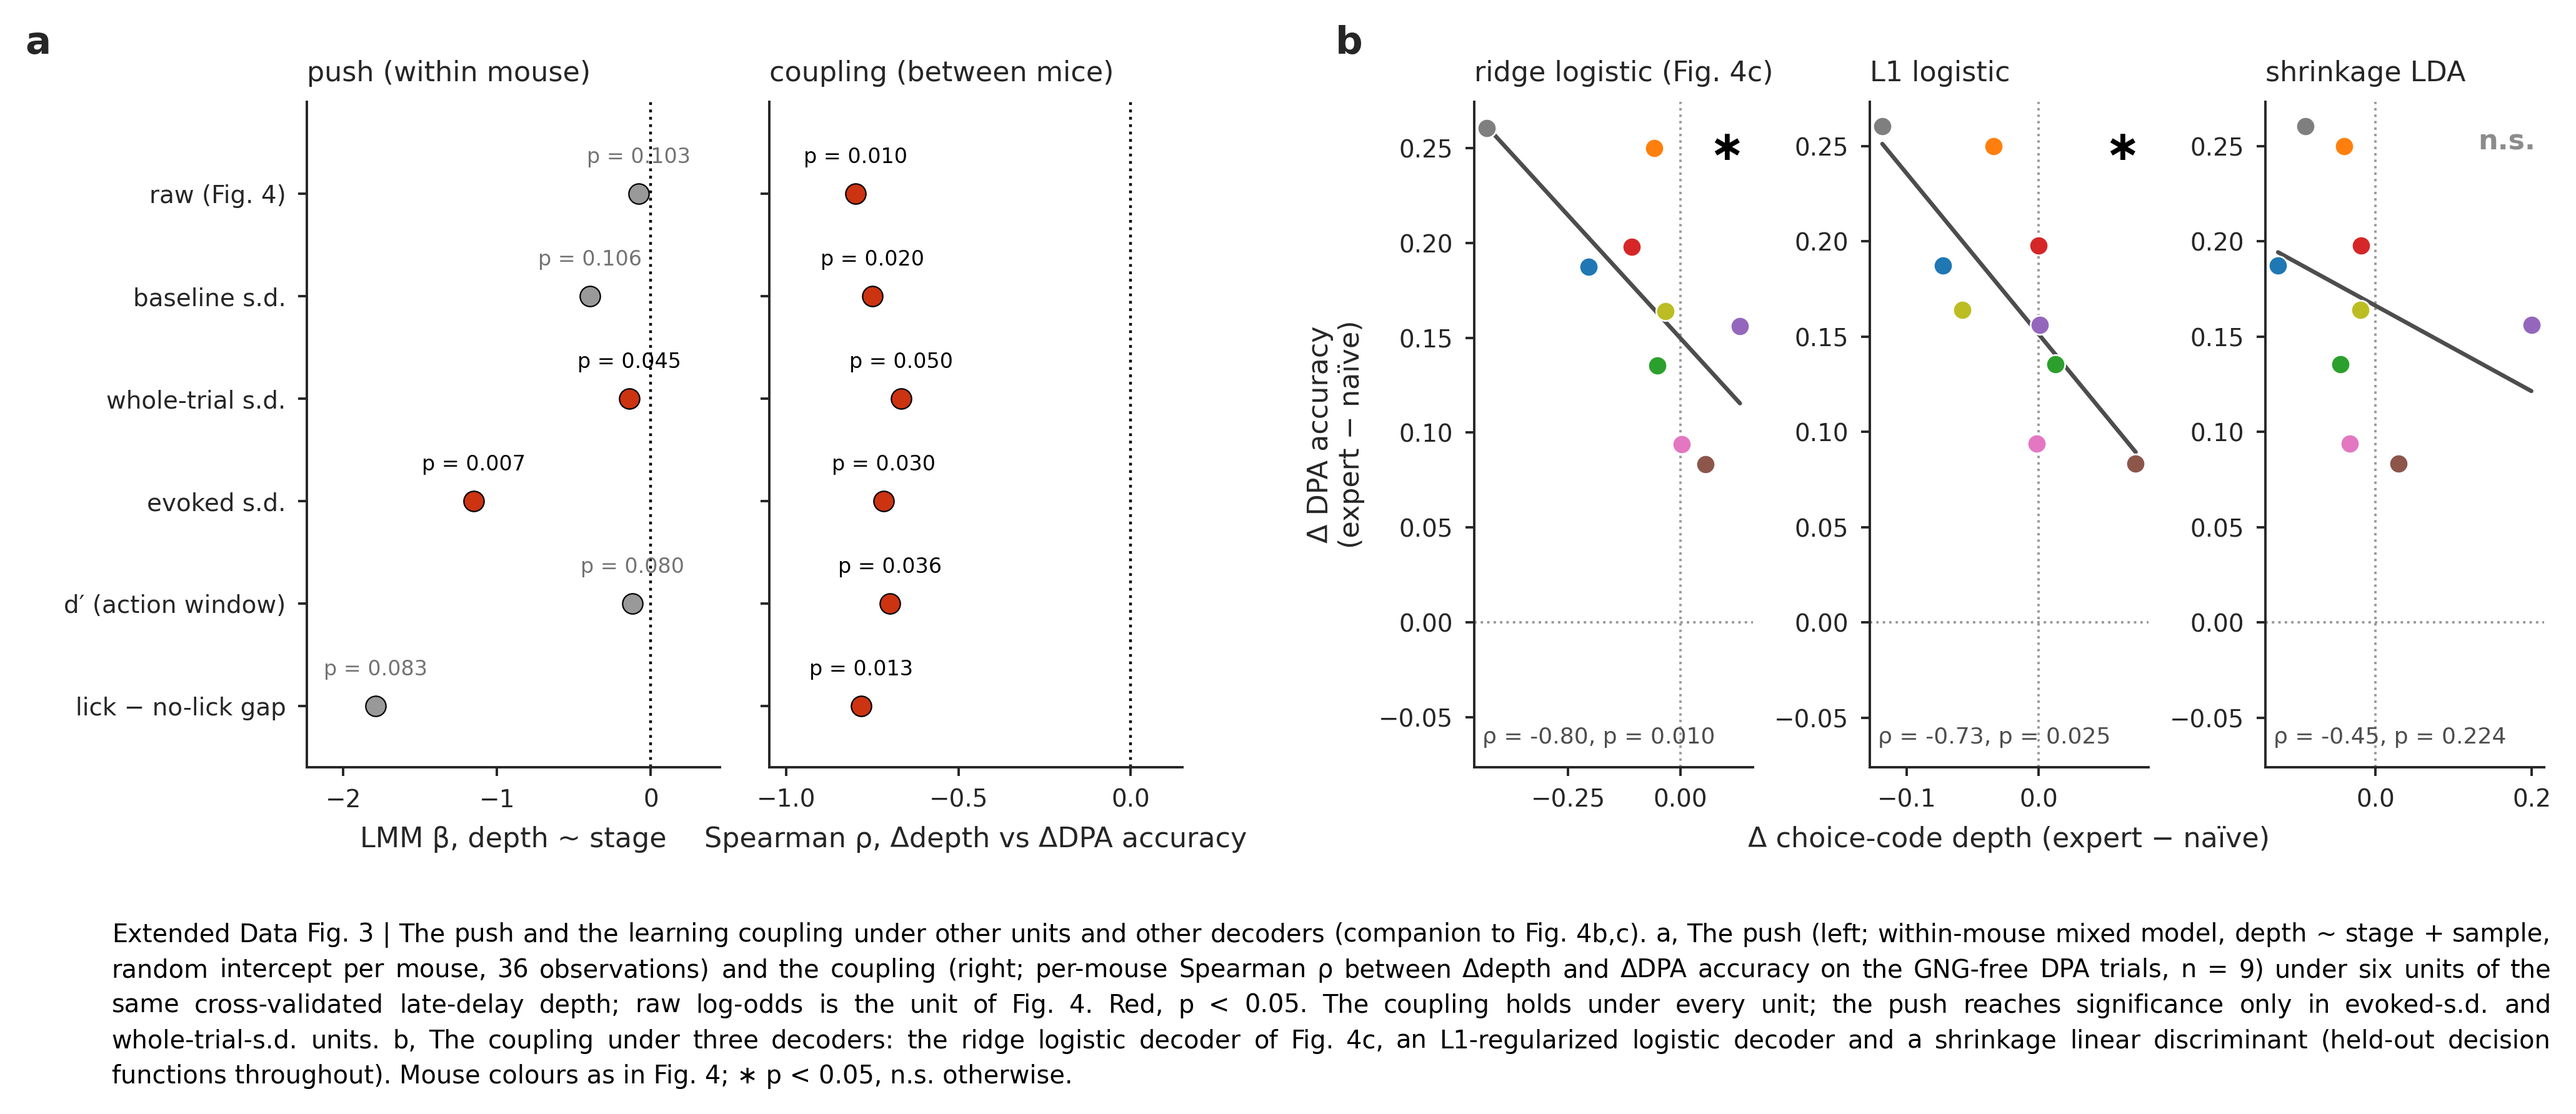
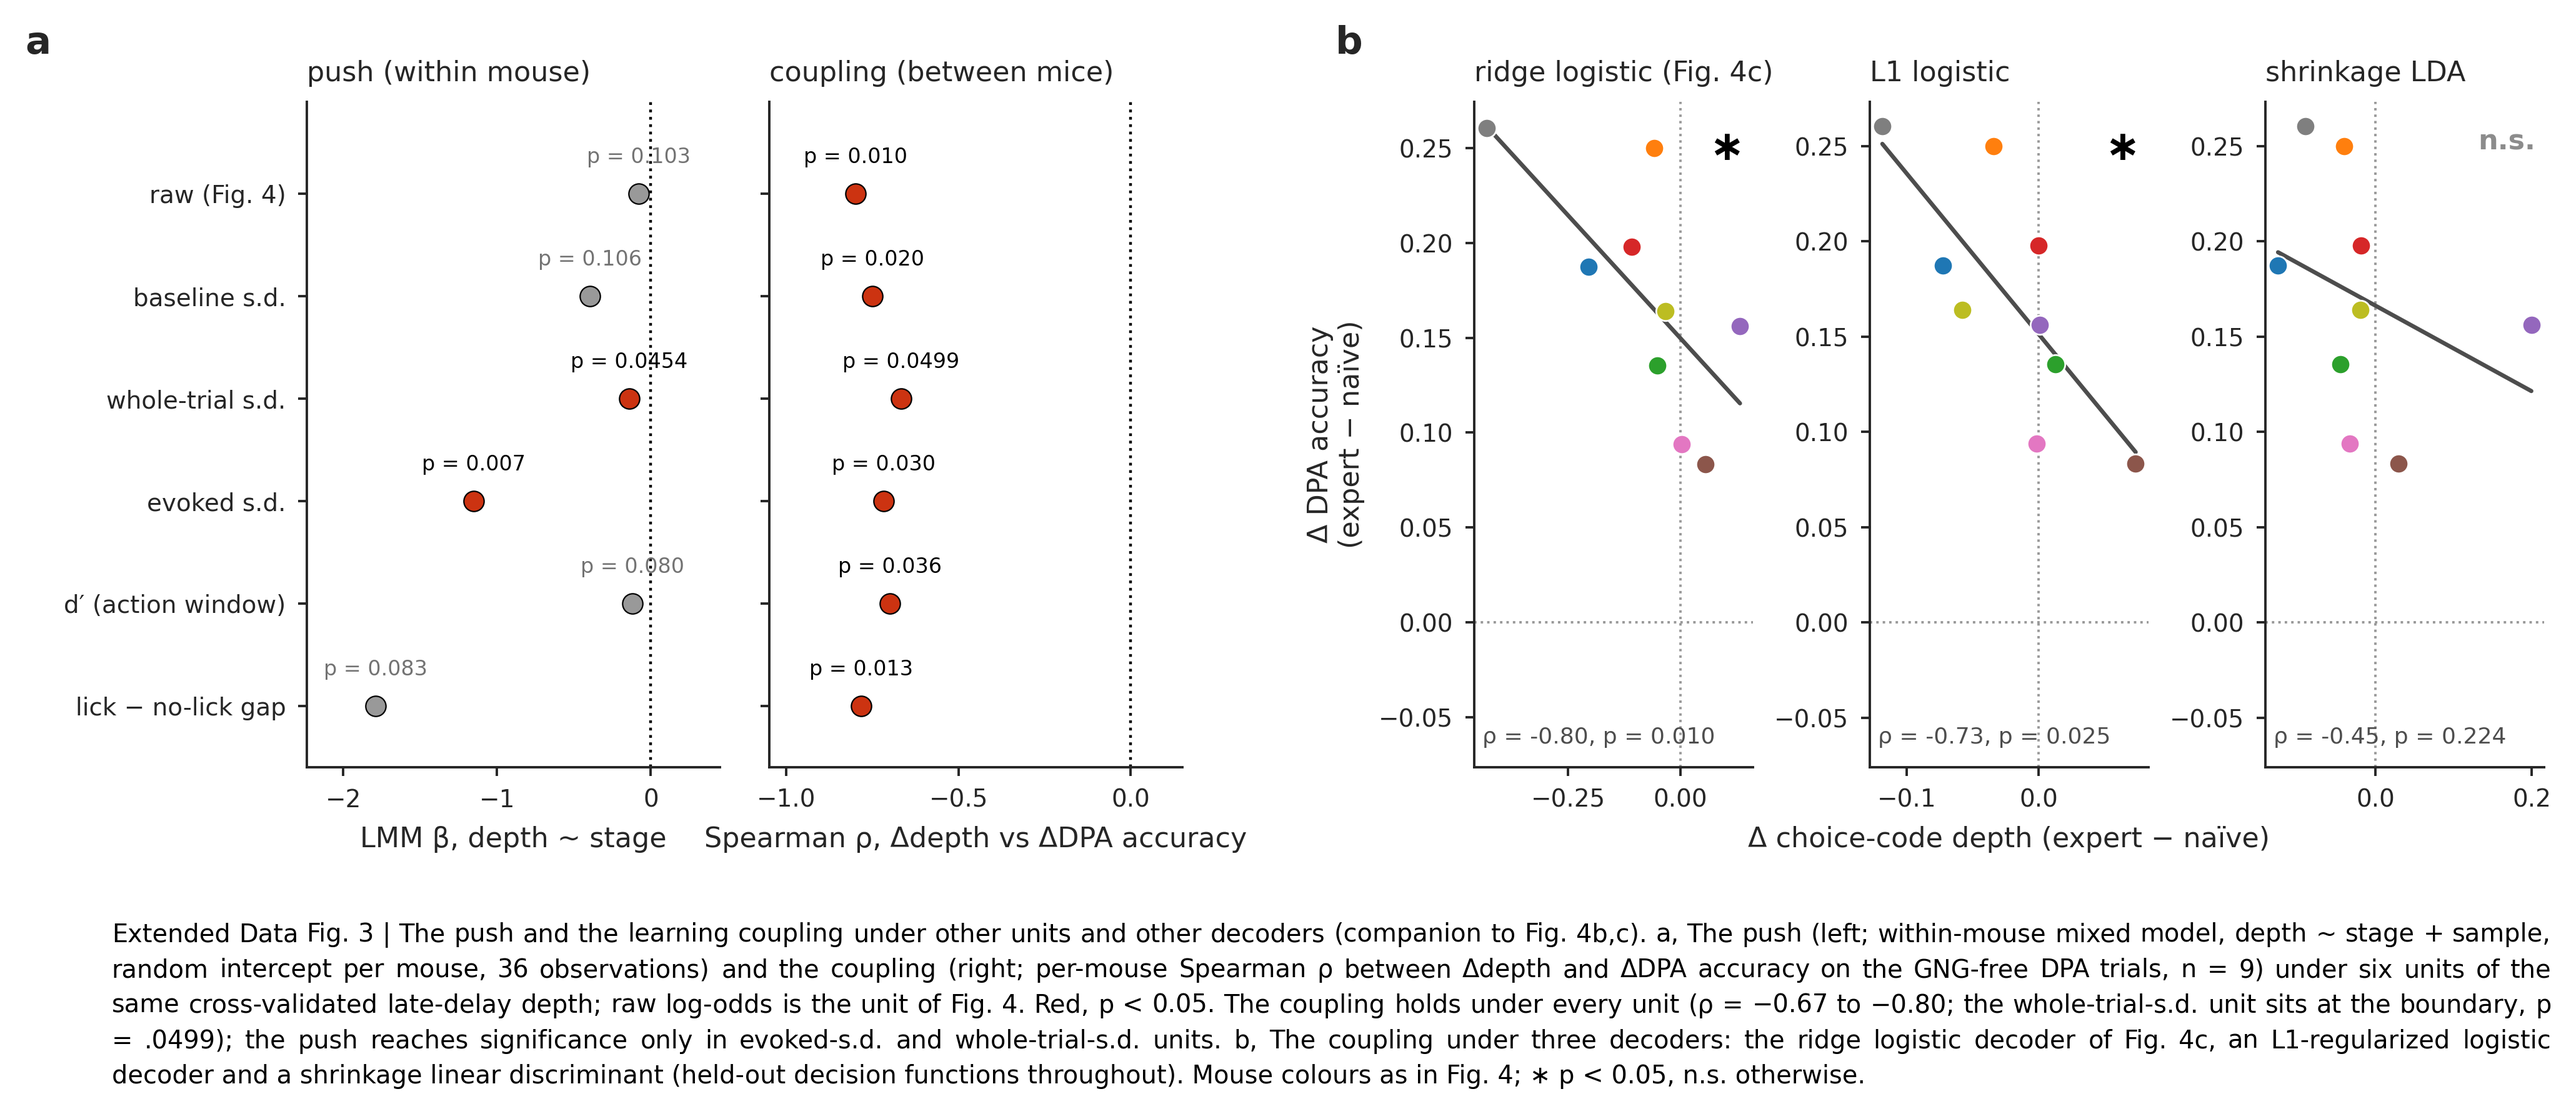
ED review flags applied: Discussion 'anti-generalizes' → 'barely generalizes' (CCGP 0.55–0.58); ED 3a boundary p = .0499 stated; ED 5 ceiling mice noted
Claude-Session: https://claude.ai/code/session_01PzGzWMKHPqqyp4poHedntF

Changed region(s): [[0.0311, 0.8946, 0.9937, 0.9871], [0.2174, 0.3085, 0.2795, 0.3393], [0.3416, 0.3085, 0.3726, 0.3393]]

diff --git a/overlaps/fig_ed3_coupling.py b/overlaps/fig_ed3_coupling.py
@@ -75,7 +75,7 @@ def panel_a(fig, gs):
         for i, nm in enumerate(norms):
             val, p = dat[nm]; sig = p < 0.05
             ax.scatter(val, yv[i], s=34, color=SIGC if sig else NSC, zorder=3, edgecolors='k', linewidths=0.4)
-            ax.text(val, yv[i] + 0.26, f'p = {p:.3f}', ha='center', va='bottom', fontsize=PS*6.0,
+            ax.text(val, yv[i] + 0.26, f'p = {p:.4f}' if 0.045 < p < 0.055 else f'p = {p:.3f}', ha='center', va='bottom', fontsize=PS*6.0,
                     color='k' if sig else '0.45')
             print(f'a: {ttl[:8]} {nm:14s} {val:+.3f} p={p:.3f}')
         ax.axvline(0, ls=':', color='k', lw=0.8)
@@ -200,8 +200,8 @@ CAP = [
     'Fig. 4b,c). a, The push (left; within-mouse mixed model, depth ~ stage + sample, random intercept per mouse, 36 '
     'observations) and the coupling (right; per-mouse Spearman ρ between Δdepth and ΔDPA accuracy on the GNG-free '
     'DPA trials, n = 9) under six units of the same cross-validated late-delay depth; raw log-odds is the unit of '
-    'Fig. 4. Red, p < 0.05. The coupling holds under every unit; the push reaches significance only in evoked-s.d. '
-    'and whole-trial-s.d. units. b, The coupling under three decoders: the ridge logistic decoder of Fig. 4c, an '
+    'Fig. 4. Red, p < 0.05. The coupling holds under every unit (ρ = −0.67 to −0.80; the whole-trial-s.d. unit sits at '
+    'the boundary, p = .0499); the push reaches significance only in evoked-s.d. and whole-trial-s.d. units. b, The coupling under three decoders: the ridge logistic decoder of Fig. 4c, an '
     'L1-regularized logistic decoder and a shrinkage linear discriminant (held-out decision functions throughout). '
     'Mouse colours as in Fig. 4; ∗ p < 0.05, n.s. otherwise.',
 ]

diff --git a/overlaps/fig_ed5_laser7.py b/overlaps/fig_ed5_laser7.py
@@ -135,7 +135,8 @@ CAP = [
     'the ACC-implant mice received no laser); same axis, window and units as Fig. 6 (expert stage, DPA trials, depth '
     'read at late delay on the laser-OFF-trained choice axis). a, DPA arm. b, GNG arm. Because the two opsins move '
     'the state in opposite directions, the pooled rank test asks only whether a displacement of either sign tracks '
-    'the change in accuracy; Spearman ρ, n = 7; shaded, 95% band of the linear fit.',
+    'the change in accuracy; Spearman ρ, n = 7; shaded, 95% band of the linear fit. Two Jaws mice at ceiling in both '
+    'tasks show no change in either accuracy (the two points on the zero line).',
 ]
 if not NOCAP:
     draw_justified(fig, CAP, fontsize=PS*7.2)

diff --git a/docs/paper/results_draft.md b/docs/paper/results_draft.md
@@ -1405,7 +1405,8 @@ a stale number; the canonical caches give p = .055, unstarred, and §3 now says 
 Fig. 4b,c).** a, The push (left; within-mouse mixed model, depth ~ stage + sample, random intercept per mouse, 36
 observations) and the coupling (right; per-mouse Spearman ρ between Δdepth and ΔDPA accuracy on the GNG-free DPA
 trials, n = 9) under six units of the same cross-validated late-delay depth; raw log-odds is the unit of Fig. 4.
-The coupling holds under every unit (ρ = −0.67 to −0.80, p ≤ .05); the push is a trend in raw units (β = −0.08,
+The coupling holds under every unit (ρ = −0.67 to −0.80, p = .010–.036, the whole-trial-s.d. unit at the boundary,
+p = .0499); the push is a trend in raw units (β = −0.08,
 p = .10) and reaches significance only in evoked-s.d. (p = .007) and whole-trial-s.d. (p = .045) units. b, The
 coupling under three decoders: the ridge logistic decoder of Fig. 4c (ρ = −0.80, p = .010), an L1-regularized
 logistic decoder (ρ = −0.73, p = .025) and a shrinkage linear discriminant (ρ = −0.45, p = .22); held-out decision
@@ -1438,7 +1439,8 @@ the ACC-implant mice received no laser); same axis, window and units as Fig. 6 (
 depth read at late delay on the laser-OFF-trained choice axis). a, DPA arm (Spearman ρ = +0.71, p = .074).
 b, GNG arm (ρ = −0.94, p = .002). Because the two opsins move the state in opposite directions, the pooled rank
 test asks only whether a displacement of either sign tracks the change in accuracy; n = 7; shaded, 95% band of
-the linear fit. _(2026-09-15: the old page quoted GNG ρ = −0.90, p = .006 and a null DPA arm from a different
+the linear fit. Two Jaws mice at ceiling in both tasks show no change in either accuracy (the two points on the
+zero line). _(2026-09-15: the old page quoted GNG ρ = −0.90, p = .006 and a null DPA arm from a different
 axis and window (trainLD_TEST, bins 27–53); this build uses the Fig. 6 estimator and §6 now quotes it.)_
 
 **ED Fig. 6 | The demixed-PCA decomposition gives the same picture (companion to Fig. 2).** a, Withheld

diff --git a/docs/paper/discussion_draft.md b/docs/paper/discussion_draft.md
@@ -27,8 +27,8 @@ cross-condition generalization has revealed in primate prefrontal cortex and hip
 [Bernardi 2020]. Here it appears in mouse mPFC, and under active interference, because the same
 axes have to serve a memory while an embedded action task runs through it. Our data also refine
 the mixed-selectivity picture [Rigotti 2013]. The decision state occupies about three reliable
-dimensions and the test code is conjunctive, in that it anti-generalizes across sample
-(Extended Data Fig. 2b), so the high-dimensional component is there. The maintained memory, by
+dimensions and the test code is conjunctive, in that it barely generalizes across sample
+(per-mouse cross-condition accuracy 0.55–0.58; Extended Data Fig. 2b), so the high-dimensional component is there. The maintained memory, by
 contrast, is deliberately minimal, a single reliable dimension (Fig. 2b). The two regimes
 coexist with a division of labour: low-dimensional and abstract where information has to be
 protected and transferred, higher-dimensional where stimulus–response conjunctions have to be
